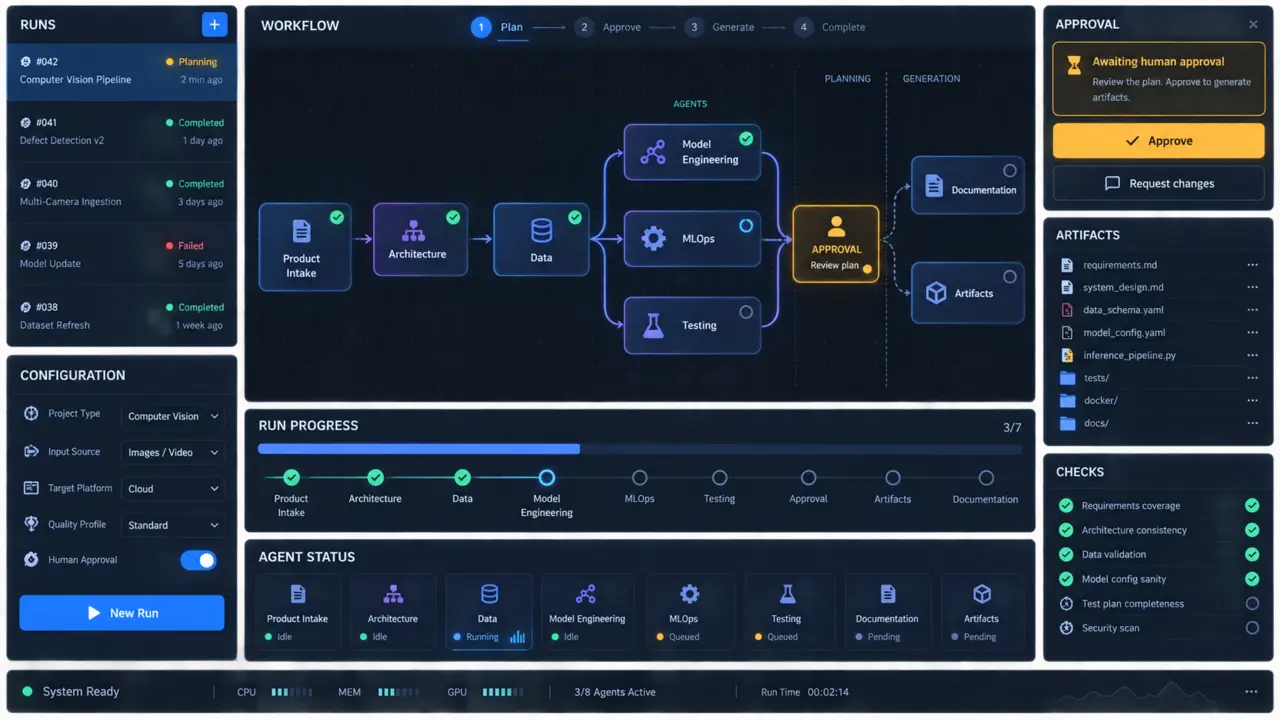
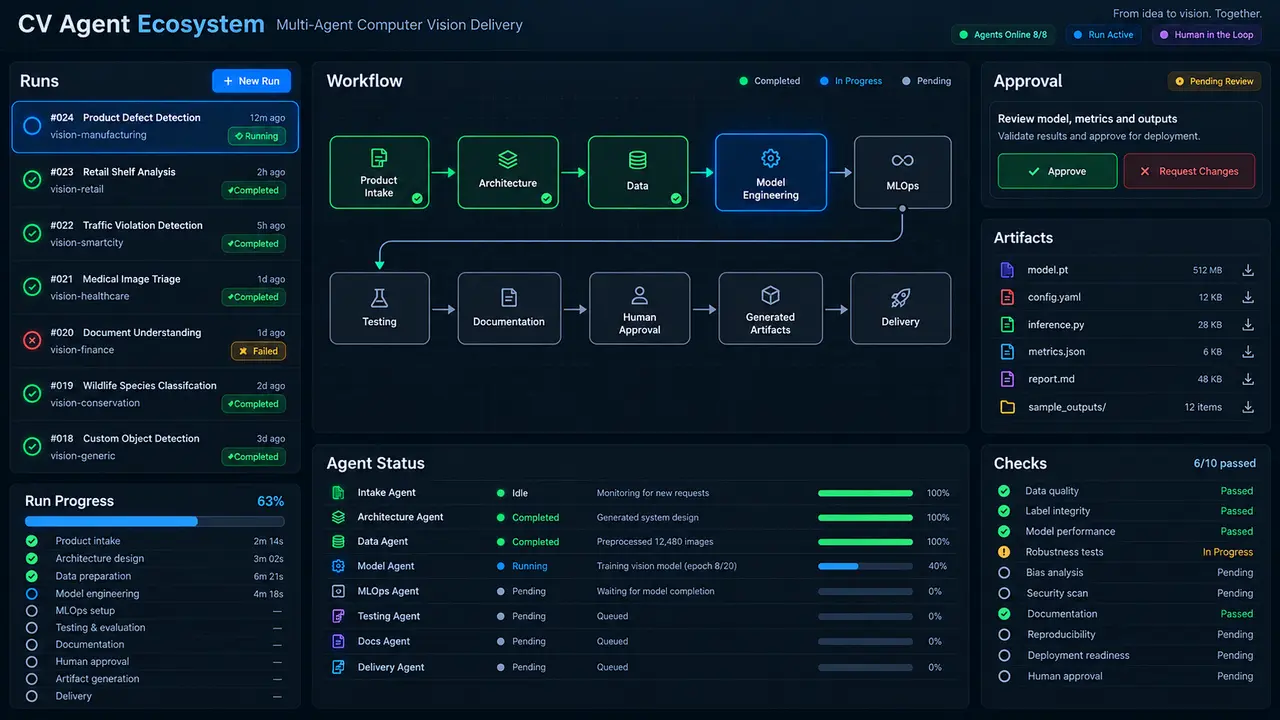
Refresh dashboard visuals and portfolio totals

diff --git a/src/data/portfolio.js b/src/data/portfolio.js
@@ -2,16 +2,20 @@ import projects from './projects.json';
 import publications from './publications.json';
 
 export const FEATURED_IDS = ['track-my-container', 'bat-sop', 'unilever-argus', 'anpr-bangla'];
+const deployedIndustryProjects = projects.filter(
+  project => project.maturity === 'Industry implementation'
+).length;
+
 export const HERO_STATS = [
-  { value: String(projects.length), label: 'Portfolio case studies' },
-  { value: String(publications.filter(p => p.type === 'journal').length), label: 'Journal article' },
-  { value: String(publications.filter(p => p.type === 'preprint').length), label: 'Research preprints' },
+  { value: String(projects.length), label: 'CV/ML works' },
+  { value: String(deployedIndustryProjects), label: 'Industry deployments' },
+  { value: String(publications.length), label: 'Research papers' },
 ];
 export const CAREER_EVIDENCE = [
-  { ...HERO_STATS[0], detail: 'Including system modules and R&D', icon: 'repo' },
+  { ...HERO_STATS[0], detail: 'Industry, R&D, research, and academic work', icon: 'repo' },
+  { ...HERO_STATS[1], detail: 'Deployed projects from ANPR through Mobil', icon: 'briefcase' },
+  { ...HERO_STATS[2], detail: 'One journal article and two preprints', icon: 'book' },
   { value: 'CV + Edge AI', label: 'Engineering focus', detail: 'Models, systems, and deployment', icon: 'gear' },
-  { ...HERO_STATS[1], detail: 'Peer-reviewed research', icon: 'book' },
-  { ...HERO_STATS[2], detail: 'Separate from the journal article', icon: 'doc' },
 ];
 export const SITE = 'https://www.rafiulislam.me';
 export const DEFAULT_IMAGE = '/assets/og-cover.png';
